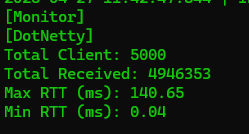
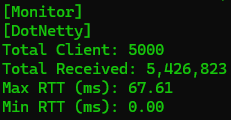
밴치마크 갱신

diff --git a/TestClient/Program.cs b/TestClient/Program.cs
@@ -99,7 +99,7 @@ namespace EchoClient
             {
                 client.Close();
             }
-            Monitor.Instance.Print("DignusSocketServer");
+            Monitor.Instance.Print("SuperSocket2.0");
         }
         static void Main(string[] args)
         {

diff --git a/README.md b/README.md
@@ -34,9 +34,9 @@ https://github.com/EomTaeWook/DignusSocketServer
 | 항목 | DignusSocketServer | DotNetty | SuperSocket 2.0 |
 |:---|:---|:---|:---|
 | Total Clients | 5000 | 5000 | 5000 |
-| Total Received | 5,984,326 | 4,946,353 | 3,170,083 |
-| Max RTT (ms) | 73.02 | 140.65 | 128.70 |
-| Min RTT (ms) | 0.03 | 0.04 | 0.05 |
+| Total Received | 6,358,117 | 5,426,823 | 3,191,922 |
+| Max RTT (ms) | 22.02 | 67.61 | 11.72 |
+| Min RTT (ms) | 0.00 | 0.00 | 0.00 |
 
 ---
 
@@ -45,9 +45,9 @@ https://github.com/EomTaeWook/DignusSocketServer
 | 항목 | DignusSocketServer | DotNetty | SuperSocket 2.0 |
 |:---|:---|:---|:---|
 | Total Clients | 5000 | 5000 | 5000 |
-| Total Received | 6,593,243 | 5,226,484 | 3,127,793 |
-| Max RTT (ms) | 40.56 | 136.36 | 146.61 |
-| Min RTT (ms) | 0.02 | 0.04 | 0.05 |
+| Total Received | 6,593,243 | 5,836,706 | 3,223,877 |
+| Max RTT (ms) | 22.08 | 77.93 | 11.17 |
+| Min RTT (ms) | 0.00 | 0.00 | 0.01 |
 
 ---
 
@@ -56,9 +56,9 @@ https://github.com/EomTaeWook/DignusSocketServer
 | 항목 | DignusSocketServer (초기) | DignusSocketServer (웜업 후) | DotNetty (초기) | DotNetty (웜업 후) | SuperSocket 2.0 (초기) | SuperSocket 2.0 (웜업 후) |
 |:---|:---|:---|:---|:---|:---|:---|
 | Total Clients | 5000 | 5000 | 5000 | 5000 | 5000 | 5000 |
-| Total Received | 5,984,326 | 6,593,243 | 4,946,353 | 5,226,484 | 3,170,083 | 3,127,793 |
-| Max RTT (ms) | 73.02 | 40.56 | 140.65 | 136.36 | 128.70 | 146.61 |
-| Min RTT (ms) | 0.03 | 0.02 | 0.04 | 0.04 | 0.05 | 0.05 |
+| Total Received | 6,358,117 | 6,593,243 | 5,426,823 | 5,836,706 | 3,191,922 | 3,223,877 |
+| Max RTT (ms) | 22.02 | 22.08 | 67.61 | 77.93 | 11.72 | 11.17 |
+| Min RTT (ms) | 0.00 | 0.00 | 0.00 | 0.00 | 0.00 | 0.01 |
 
 ---
 
@@ -126,9 +126,9 @@ https://github.com/EomTaeWook/DignusSocketServer
 | Item | DignusSocketServer | DotNetty | SuperSocket 2.0 |
 |:---|:---|:---|:---|
 | Total Clients | 5000 | 5000 | 5000 |
-| Total Received | 5,984,326 | 4,946,353 | 3,170,083 |
-| Max RTT (ms) | 73.02 | 140.65 | 128.70 |
-| Min RTT (ms) | 0.03 | 0.04 | 0.05 |
+| Total Received | 6,358,117 | 5,426,823 | 3,191,922 |
+| Max RTT (ms) | 22.02 | 67.61 | 11.72 |
+| Min RTT (ms) | 0.00 | 0.00 | 0.00 |
 
 ---
 
@@ -137,9 +137,9 @@ https://github.com/EomTaeWook/DignusSocketServer
 | Item | DignusSocketServer | DotNetty | SuperSocket 2.0 |
 |:---|:---|:---|:---|
 | Total Clients | 5000 | 5000 | 5000 |
-| Total Received | 6,593,243 | 5,226,484 | 3,127,793 |
-| Max RTT (ms) | 40.56 | 136.36 | 146.61 |
-| Min RTT (ms) | 0.02 | 0.04 | 0.05 |
+| Total Received | 6,593,243 | 5,836,706 | 3,223,877 |
+| Max RTT (ms) | 22.08 | 77.93 | 11.17 |
+| Min RTT (ms) | 0.00 | 0.00 | 0.01 |
 
 ---
 
@@ -148,9 +148,9 @@ https://github.com/EomTaeWook/DignusSocketServer
 | Item | DignusSocketServer (Cold) | DignusSocketServer (Warm-up) | DotNetty (Cold) | DotNetty (Warm-up) | SuperSocket 2.0 (Cold) | SuperSocket 2.0 (Warm-up) |
 |:---|:---|:---|:---|:---|:---|:---|
 | Total Clients | 5000 | 5000 | 5000 | 5000 | 5000 | 5000 |
-| Total Received | 5,984,326 | 6,593,243 | 4,946,353 | 5,226,484 | 3,170,083 | 3,127,793 |
-| Max RTT (ms) | 73.02 | 40.56 | 140.65 | 136.36 | 128.70 | 146.61 |
-| Min RTT (ms) | 0.03 | 0.02 | 0.04 | 0.04 | 0.05 | 0.05 |
+| Total Received | 6,358,117 | 6,593,243 | 5,426,823 | 5,836,706 | 3,191,922 | 3,223,877 |
+| Max RTT (ms) | 22.02 | 22.08 | 67.61 | 77.93 | 11.72 | 11.17 |
+| Min RTT (ms) | 0.00 | 0.00 | 0.00 | 0.00 | 0.00 | 0.01 |
 
 # 🖼 Test Result Captures (Cold Start)
 
